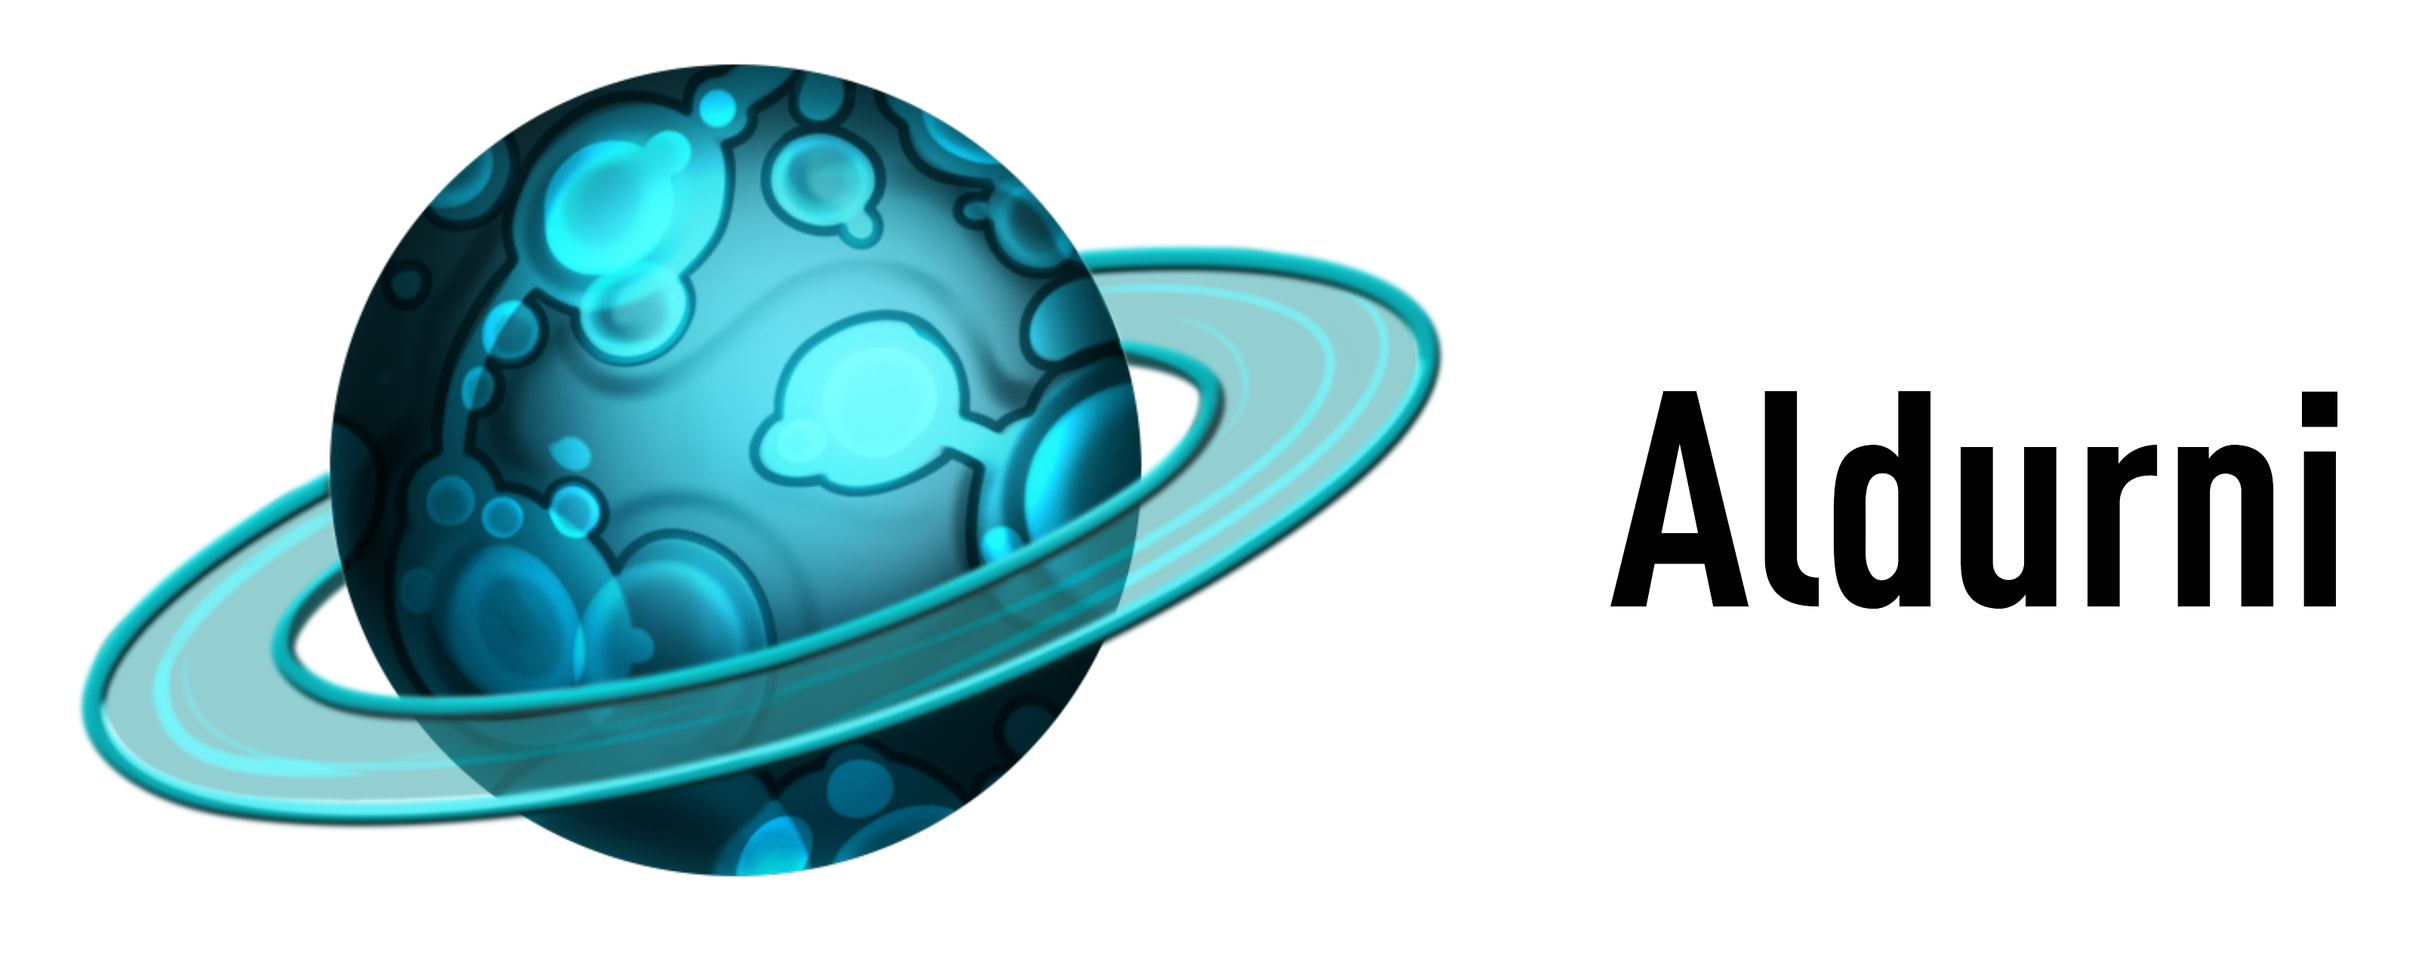
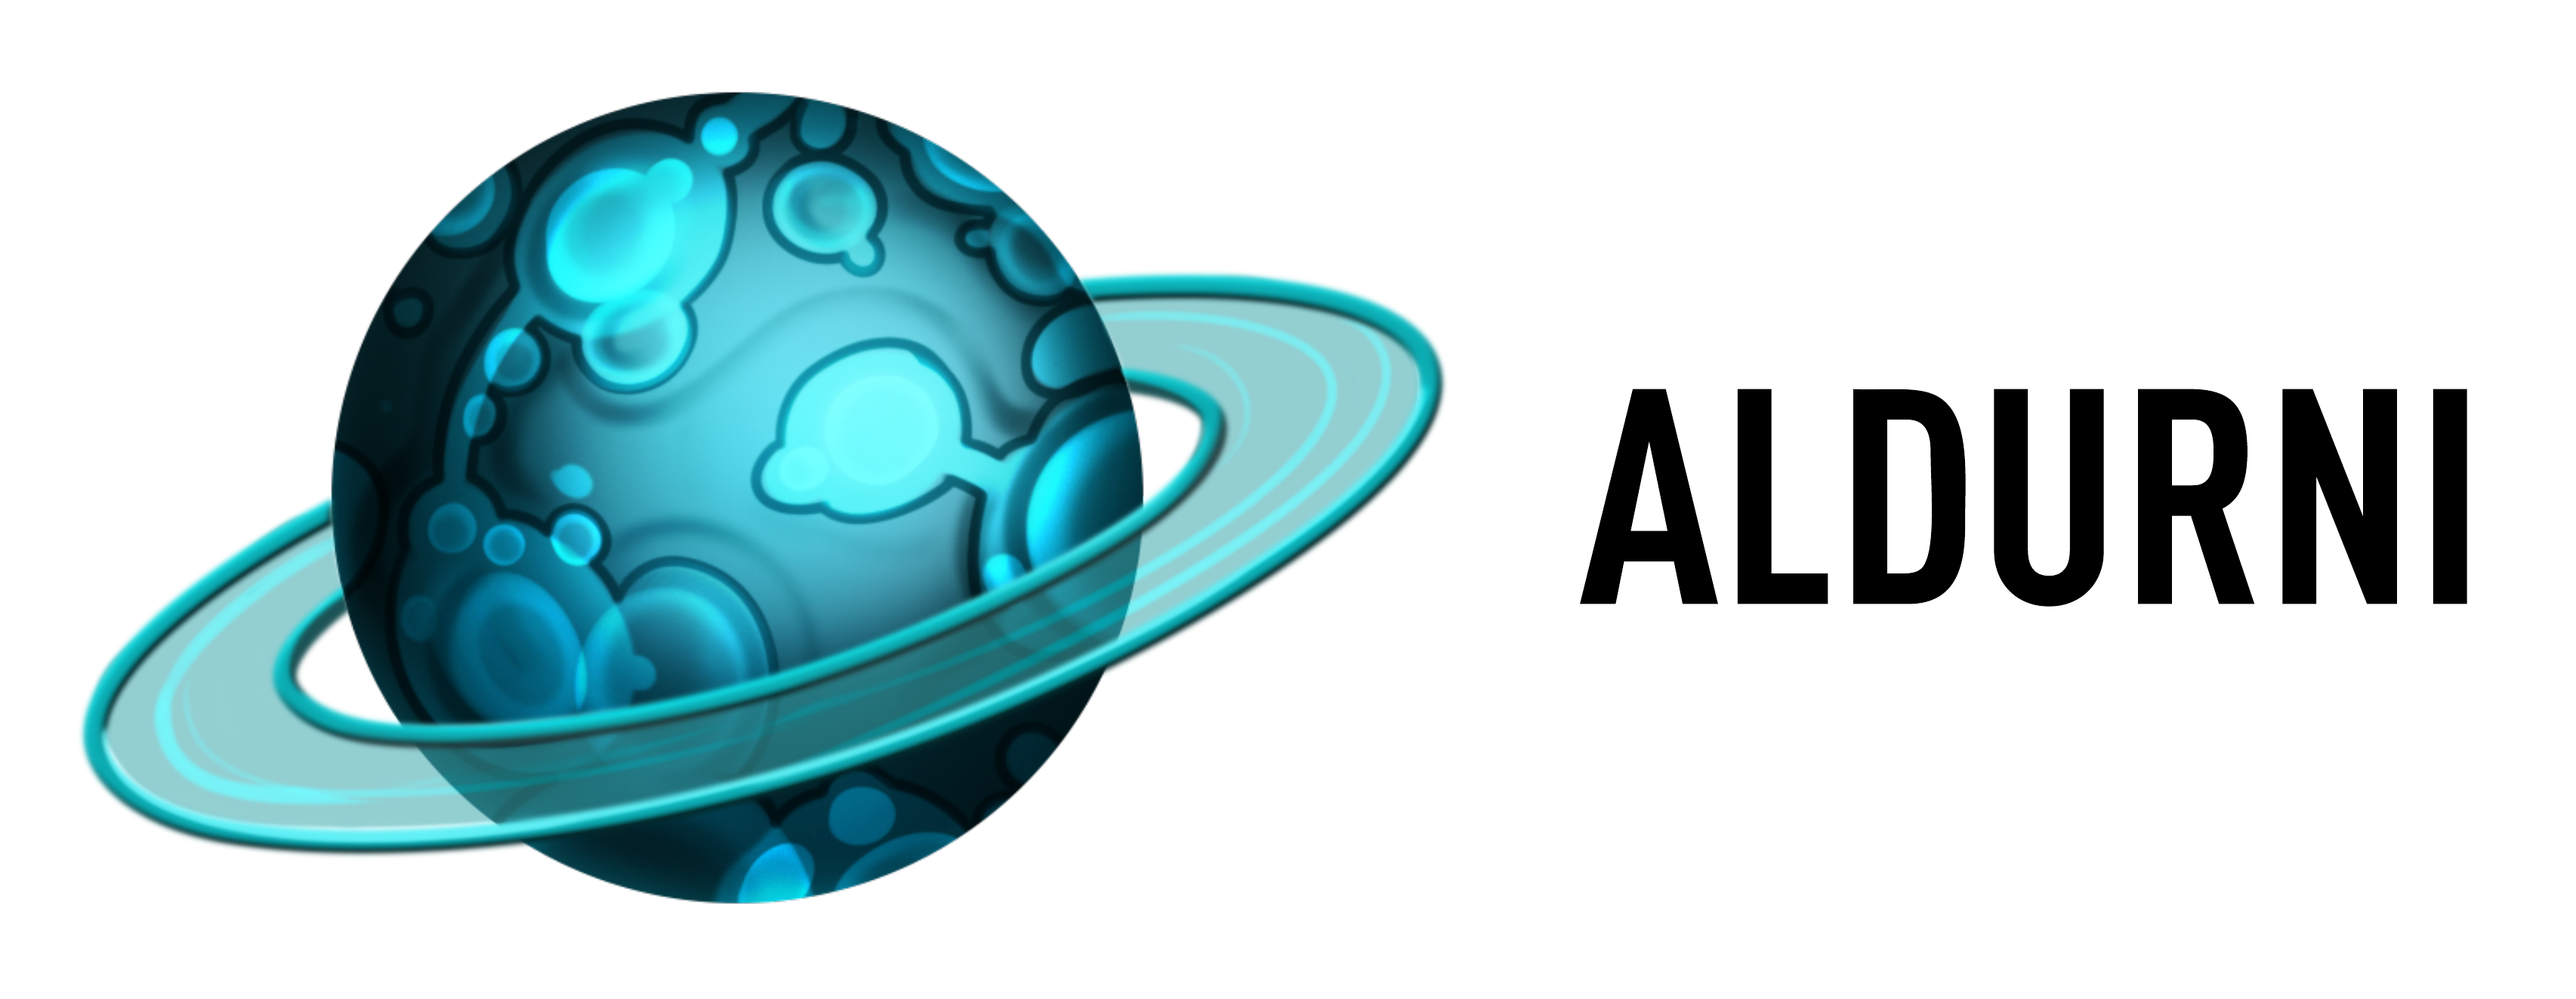
Solved some typos. Replaced aldurni-title.png.

Changed region(s): [[0.0311, 0.0616, 0.9651, 0.9242]]

diff --git a/README.md b/README.md
@@ -27,7 +27,7 @@ Welcome to the Aldurni project. This image is part of the [k8sb](https://github.
   * build.
     * The Docker file, and the container artifacts need must be included here.
     * Also in this directory you can find the build.sh script. Execute it if you plan to build this image. 
-    * Once the image was built, you can go to the executables directory.
+    * Once the image was build, you can go to the executables directory.
   * executables.
     * Each script under this directory wraps a useful Docker command.
     * To give a try the container:
